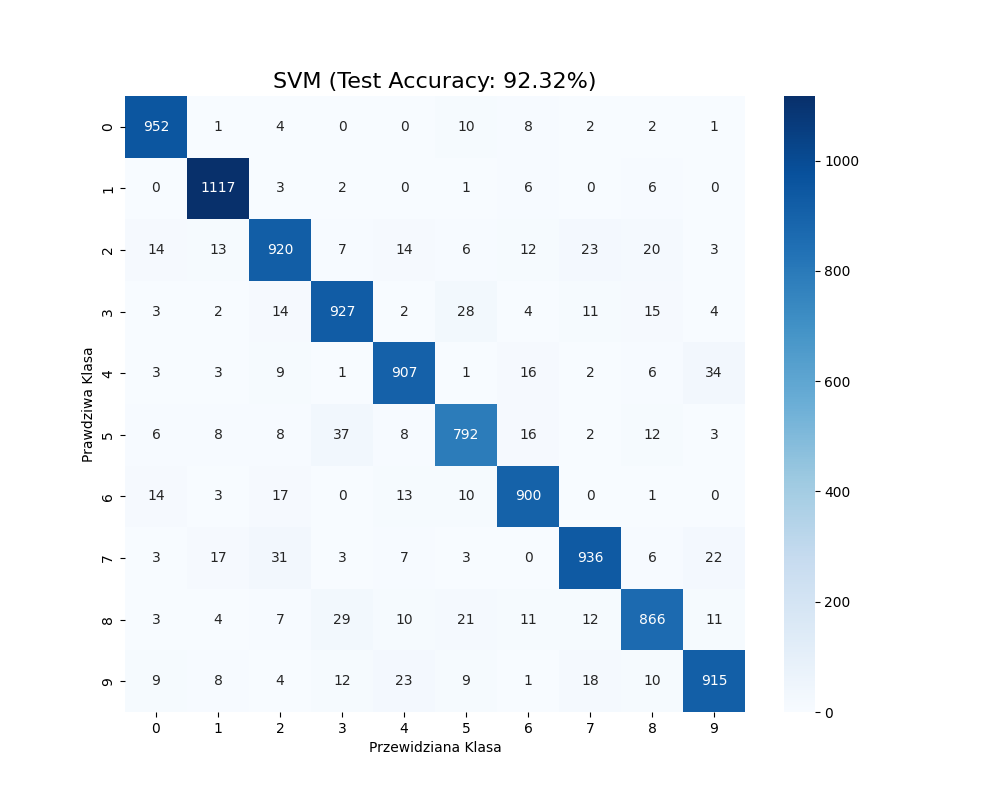
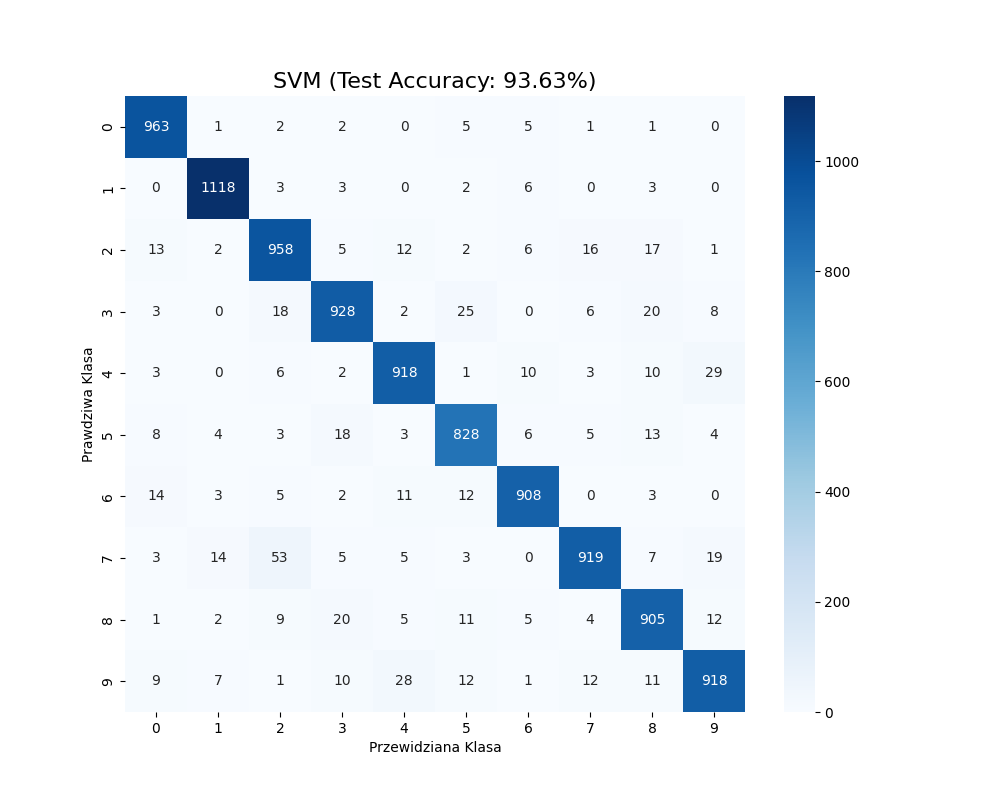
klasyczne wersje svm i neuronów dodane

diff --git a/classical_neurons.py b/classical_neurons.py
@@ -1,0 +1,93 @@
+#train_acc: 1.000
+import os
+import torch
+import torch.nn as nn
+import torch.nn.functional as F
+from torch.utils.data import DataLoader, TensorDataset
+import pytorch_lightning as pl
+import numpy as np
+from tensorflow.keras.datasets import mnist
+import matplotlib.pyplot as plt
+import seaborn as sns
+from sklearn.metrics import confusion_matrix, accuracy_score
+
+(x_train_raw, y_train_raw), (x_test_raw, y_test_raw) = mnist.load_data()
+
+def preprocess(data):
+    return data.reshape(-1, 784).astype(np.float32) / 255.0
+
+X_train = preprocess(x_train_raw)
+X_test = preprocess(x_test_raw)
+y_train = y_train_raw.astype(np.int64)
+y_test = y_test_raw.astype(np.int64)
+
+train_dataset = TensorDataset(torch.tensor(X_train), torch.tensor(y_train))
+test_dataset = TensorDataset(torch.tensor(X_test), torch.tensor(y_test))
+
+train_loader = DataLoader(train_dataset, batch_size=1, shuffle=True)
+test_loader = DataLoader(test_dataset, batch_size=1000, shuffle=False)
+
+class BipolarSTE(nn.Module):
+    def forward(self, x):
+        bipolar = torch.where(x >= 0, torch.tensor(1.0, device=x.device), torch.tensor(-1.0, device=x.device))
+        return bipolar.detach() - torch.tanh(x).detach() + torch.tanh(x)
+
+
+class ClassicalNeurons(pl.LightningModule):
+    def __init__(self):
+        super().__init__()
+        self.fc1 = nn.Linear(784, 120)
+        self.fc2 = nn.Linear(120, 40)
+        self.activation = BipolarSTE()
+
+    def forward(self, x):
+        h = self.activation(self.fc1(x))
+        o = self.activation(self.fc2(h))
+        
+        votes = o.view(-1, 10, 4).sum(dim=2) 
+        return votes
+
+    def training_step(self, batch, batch_idx):
+        x, y = batch
+        logits = self(x)
+        
+        loss = F.cross_entropy(logits, y)
+        preds = torch.argmax(logits, dim=1)
+        acc = (preds == y).float().mean()
+        
+        self.log('train_loss', loss, prog_bar=True)
+        self.log('train_acc', acc, prog_bar=True)
+        return loss
+
+    def configure_optimizers(self):
+        return torch.optim.SGD(self.parameters(), lr=0.002)
+
+
+model = ClassicalNeurons()
+trainer = pl.Trainer(max_epochs=13, limit_train_batches=1000, enable_progress_bar=True)
+
+trainer.fit(model, train_loader)
+
+model.eval()
+y_pred_list = []
+y_true_list = []
+
+with torch.no_grad():
+    for x, y in test_loader:
+        logits = model(x)
+        preds = torch.argmax(logits, dim=1)
+        y_pred_list.extend(preds.numpy())
+        y_true_list.extend(y.numpy())
+
+final_acc = accuracy_score(y_true_list, y_pred_list)
+
+cm = confusion_matrix(y_true_list, y_pred_list)
+
+plt.figure(figsize=(10, 8))
+sns.heatmap(cm, annot=True, fmt='d', cmap='Blues')
+plt.xlabel('Przewidziana Cyfra')
+plt.ylabel('Prawdziwa Cyfra')
+plt.title(f'Classic Neurons (Test Accuracy: {final_acc*100:.2f}%)', fontsize=16)
+
+plt.savefig('wykresy_kwantowy/classical_neurons_confusion.png')
+plt.show()

diff --git a/classical_svm.py b/classical_svm.py
@@ -1,0 +1,37 @@
+from tensorflow.keras.datasets import mnist
+import numpy as np
+import matplotlib.pyplot as plt
+import seaborn as sns
+from sklearn.svm import SVC
+from sklearn.metrics import confusion_matrix
+
+(X_train, y_train), (X_test, y_test) = mnist.load_data()
+
+def preprocess(image):
+    return np.where(image[:, 6:22, 6:22].reshape(-1, 256) > 127, 1, -1)
+
+X_train = preprocess(X_train)
+X_test = preprocess(X_test)
+
+batch_size = 10000
+indices = np.random.choice(len(X_train), batch_size, replace=False)
+X_train_sub = X_train[indices]
+y_train_sub = y_train[indices]
+
+svm = SVC(kernel='rbf', gamma=0.01, C=1.0, decision_function_shape='ovr')
+
+svm.fit(X_train_sub, y_train_sub)
+
+y_pred = svm.predict(X_test)
+accuracy = np.mean(y_pred == y_test)
+
+cm = confusion_matrix(y_test, y_pred)
+
+plt.figure(figsize=(10, 8))
+sns.heatmap(cm, annot=True, fmt='d', cmap='Blues')
+plt.title(f'Classic SVM (Test Accuracy: {accuracy*100:.2f}%)', fontsize=16)
+plt.xlabel('Przewidziana Klasa')
+plt.ylabel('Prawdziwa Klasa')
+
+plt.savefig('wykresy_kwantowy\classical_svm_confusion_matrix.png')
+plt.show()

diff --git a/quantum_svm.py b/quantum_svm.py
@@ -16,14 +16,13 @@ X_train = preprocess(X_train)
 X_test = preprocess(X_test)
 
 batch_size = 1000
-num_features = 256
 num_classes = 10
 
 sampler = neal.SimulatedAnnealingSampler()
 
 K = 2
 B = 2
-lam = 10
+lam = 1
 gamma = 0.01
 
 parameters = {}
